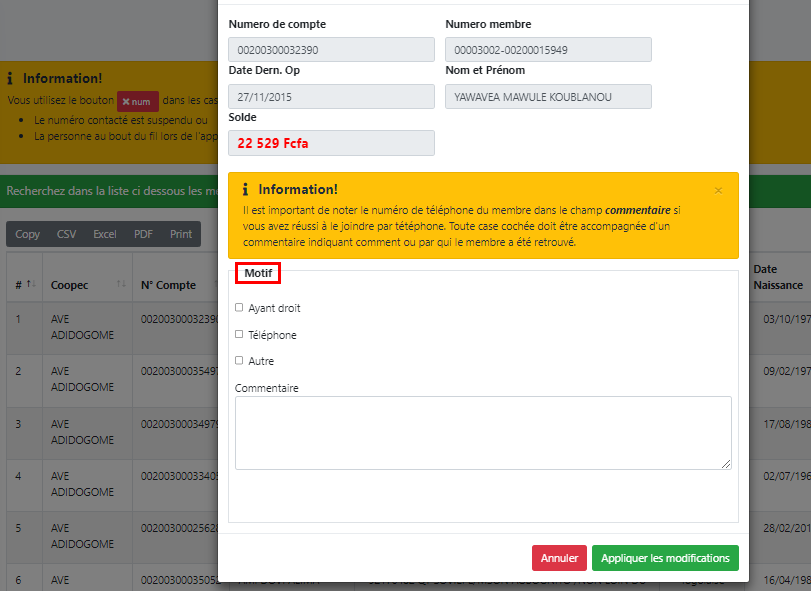
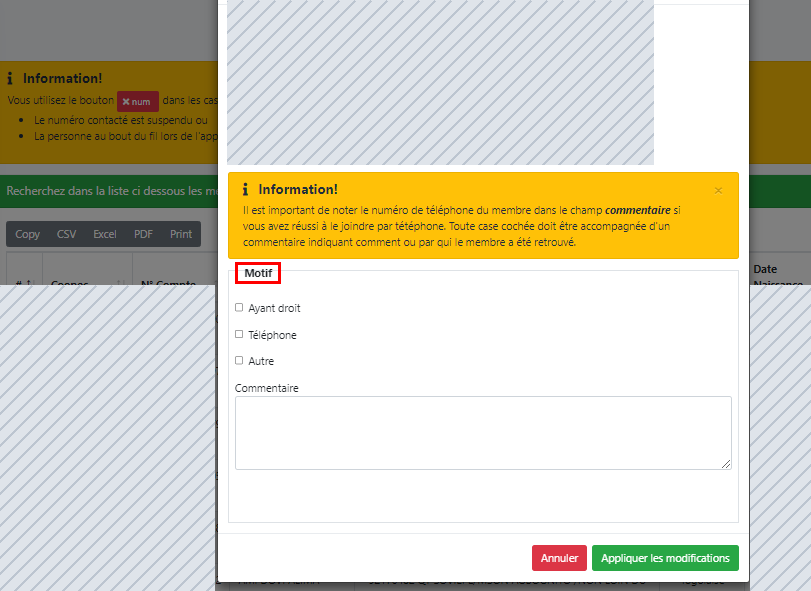
Ajoute les galeries et anonymise les captures

Changed region(s): [[0.2774, 0.0, 0.8323, 0.3046], [0.0, 0.4569, 0.2774, 1.0], [0.9248, 0.4569, 1.0, 1.0]]

diff --git a/src/data/projects.ts b/src/data/projects.ts
@@ -121,6 +121,30 @@ export const projects: Project[] = [
       "fr": "Importation des fichiers de virement",
       "en": "Transfer file import"
     }
+  },
+  {
+    "src": "/images/Gel/Crédits.png",
+    "caption": { "fr": "Crédits et échéances", "en": "Loans and due dates" }
+  },
+  {
+    "src": "/images/Gel/Simulation.png",
+    "caption": { "fr": "Simulation du gel", "en": "Funds-freeze simulation" }
+  },
+  {
+    "src": "/images/Gel/Vérifications.png",
+    "caption": { "fr": "Vérifications", "en": "Verification checks" }
+  },
+  {
+    "src": "/images/Gel/Suivi.png",
+    "caption": { "fr": "Suivi des gels", "en": "Freeze tracking" }
+  },
+  {
+    "src": "/images/Gel/Surveillance Dégel.png",
+    "caption": { "fr": "Surveillance des dégels", "en": "Unfreeze monitoring" }
+  },
+  {
+    "src": "/images/Gel/Historique des gels.png",
+    "caption": { "fr": "Historique des gels", "en": "Freeze history" }
   }
 ],
     projectUrl: "APPLICATION_INTERNE_NON_PUBLIQUE",
@@ -212,14 +236,6 @@ export const projects: Project[] = [
     "caption": {
       "fr": "Connexion à la gestion des crédits radiés",
       "en": "Written-off loans sign-in"
-    }
-  },
-  {
-    "src": "/images/credits-radies/credits radies.png",
- "presentation": "laptop",
-    "caption": {
-      "fr": "Extrait de code PHP : affichage des crédits radiés",
-      "en": "PHP code excerpt: displaying written-off loans"
     }
   }
 ],
@@ -346,6 +362,26 @@ export const projects: Project[] = [
       "fr": "Navigation de l’administration des agences",
       "en": "Branch administration navigation"
     }
+  },
+  {
+    "src": "/images/eci/ADMIN COOPECACCUEIL.png",
+    "caption": { "fr": "Tableau de bord de l’administration", "en": "Administration dashboard" }
+  },
+  {
+    "src": "/images/eci/donnees_agences.png",
+    "caption": { "fr": "Récapitulatif des agences", "en": "Branch overview" }
+  },
+  {
+    "src": "/images/eci/Menu trouvés.png",
+    "caption": { "fr": "Suivi des membres retrouvés", "en": "Located member tracking" }
+  },
+  {
+    "src": "/images/eci/Modal motif.png",
+    "caption": { "fr": "Mise à jour d’un dossier", "en": "Record update form" }
+  },
+  {
+    "src": "/images/eci/tableau dormant.png",
+    "caption": { "fr": "Liste des comptes dormants", "en": "Dormant account list" }
   }
 ],
 
@@ -708,6 +744,13 @@ export const projects: Project[] = [
 
     image: "/images/garage-revelation/accueil-dashboard.png",
     gallery: [
+      {
+        src: "/images/casse-revelation/Auth.png",
+        caption: {
+          fr: "Casse · écran de connexion",
+          en: "Salvage yard · sign-in screen",
+        },
+      },
       {
         src: "/images/garage-revelation/accueil-dashboard.png",
         caption: {
